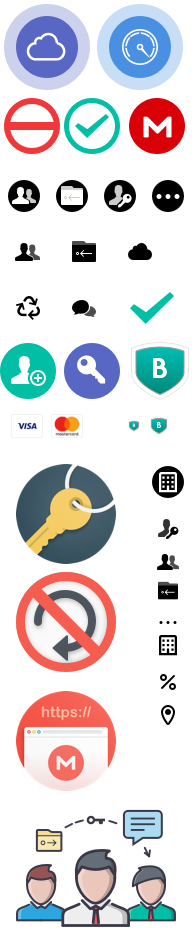
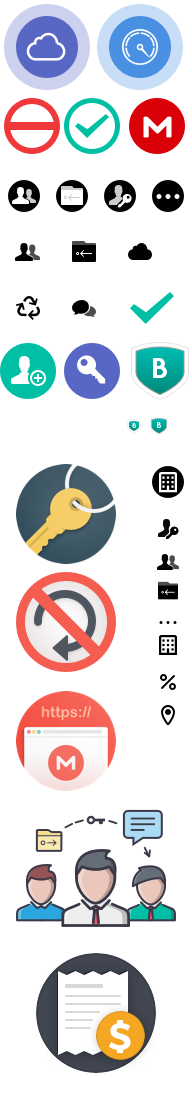
#9486: ui team: add password class indicator/modify the payment method layout/ add active input status
business icon update

diff --git a/dont-deploy/business-account-regisiter.html b/dont-deploy/business-account-regisiter.html
@@ -12,6 +12,8 @@
 <!-- <link rel="stylesheet" type="text/css" href="../css/style.css" /> -->
 <link rel="stylesheet" type="text/css" href="../css/business-register.css" />
 <link rel="stylesheet" type="text/css" href="../css/retina-images.css" />
+<link rel="stylesheet" type="text/css" href="../css/pro.css" />
+<link rel="stylesheet" type="text/css" href="../css/style.css" />
 <script type="text/javascript" src="../js/jquery-1.8.1.js"></script>
 <script type="text/javascript" src="../js/jquery.jscrollpane.js"></script>
 <script type="text/javascript" src="../js/jquery.mousewheel.js"></script>
@@ -156,7 +158,7 @@ $(document).ready(function() {
 				<input type=" " name=" " placeholder="Company Name">
 				<div class="error-message">is the error signal too red?</div>
 			</div>
-			<div class="bus-reg-input">
+			<div class="bus-reg-input active">
 				<div class="bus-reg-icon phone"></div>
 				<input type=" " name=" " placeholder="Phone Number (optional)">
 				<div class="error-message">is the error signal too red?</div>
@@ -175,7 +177,18 @@ $(document).ready(function() {
 			<div class="bus-reg-input">
 				<div class="bus-reg-icon pw"></div>
 				<input type=" " name=" " placeholder="Password">
-				<div class="error-message">is the error signal too red?</div>
+			</div>
+			<div class="new-registration good2">
+			    <div class="register-pass-status-line1"></div>
+			    <div class="register-pass-status-line2"></div>
+			    <div class="register-pass-status-line3"></div>
+			    <div class="register-pass-status-line4"></div>
+			    <div class="register-pass-status-line5"></div>
+			    <div class="clear"></div>
+			    <div class="password-stutus-txt hidden">
+			        <div class="new-reg-status-pad"><strong>Strength:</strong> Strong</div>
+			        <div class="new-reg-status-description">This password will withstand most sophisticated brute-force attacks. Please ensure that you will remember it.</div>
+			    </div>
 			</div>
 			<div class="bus-reg-input">
 				<div class="bus-reg-icon pw"></div>
@@ -189,7 +202,7 @@ $(document).ready(function() {
 				<div class="provider">Credit Card</div> 
 			    <div class="provider-icon ecpVI"></div>
                 <div class="provider-icon ecpMC"></div>
-  				<div class= "bus-reg-radio checkOff"></div>
+  				<div class= "bus-reg-radio checkOff last-child"></div>
   				<div class="provider">Direct Debit</div>
 			</div>
 			<div class="bus-reg-agreement">

diff --git a/css/business-register.css b/css/business-register.css
@@ -182,12 +182,21 @@
     background-color: rgba(217,0,7,0.5);
 }
 
+.bus-reg-input.active::after {
+    background-color: #666;
+}
+
 .bus-reg-input.error input {
 	color: rgba(217,0,7,1);
 }
 
 .bus-reg-input.error .error-message {
 	display: inline-block;
+	font-weight: 600;
+}
+
+.bus-reg-body .new-registration .register-pass-status-line1, .bus-reg-body .new-registration .register-pass-status-line2, .bus-reg-body .new-registration .register-pass-status-line3, .bus-reg-body .new-registration .register-pass-status-line4, .bus-reg-body .new-registration .register-pass-status-line5 {
+	width: 76px;
 }
 
 .bus-reg-radio-block {
@@ -215,6 +224,10 @@
     position: relative;
     display: inline-block;
     margin:3px 0;
+}
+
+.bus-reg-radio.last-child{
+	margin-left: 32px;
 }
 
 .bus-reg-body .bus-reg-radio.checkOn {
@@ -249,14 +262,14 @@
 }
 
 .bus-reg-body .provider-icon {
-    width: 32px;
-    height: 24px;
+ /*   width: 32px;
+    height: 24px;*/
     vertical-align: top;
     /*background-image: url(../images/mega/payment-provider-icons-v3.png);*/
     /*background-size: 192px auto;*/
     display: inline-block;
     margin-left: 4px;
-    margin-right: 40px;
+    margin-right: 8px;
 }
 
 /*.bus-reg-body .provider-icon.ecpVI{

diff --git a/css/retina-images.css b/css/retina-images.css
@@ -347,11 +347,6 @@ ul.top-ul li span, ul.mid-ul li span, ul.bot-ul li span, ul.can-ul li span, ul.c
      background-size: 38px auto;
 }
 
-.bus-reg-body .provider-icon {
-    background-image: url(../images/mega/big-icons@2x.png);
-    background-size: 192px auto;
-}
-
 .bus-reg-checkbox.checkOn::before {
     background-image: url(../images/mega/top-login-sprite_v11@2x.png);
 
@@ -382,7 +377,15 @@ ul.top-ul li span, ul.mid-ul li span, ul.bot-ul li span, ul.can-ul li span, ul.c
     background-size: 192px auto;
 }
 
+.tiny-icon.membership-status.bus {
+    background-image: url(../images/mega/big-icons@2x.png);
+    background-size: 192px auto;
+}
 
+.small-icon.membership.bus {
+    background-image: url(../images/mega/big-icons@2x.png);
+    background-size: 192px auto;
+}
 
 
 

diff --git a/css/icons.css b/css/icons.css
@@ -1516,3 +1516,14 @@ i.icons-sprite {
 .default-warning .download.big-icon {
     background-position: -708px -76px;
 }
+
+
+.tiny-icon.membership-status.bus {
+    background-image: url(../images/mega/big-icon.png);
+    background-position: -126px -418px;
+}
+
+.small-icon.membership.bus {
+    background-image: url(../images/mega/big-icon.png);
+    background-position: -149px -415px;
+}
